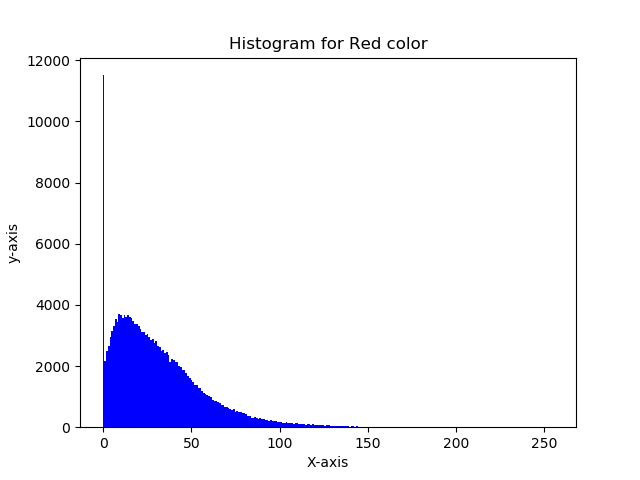
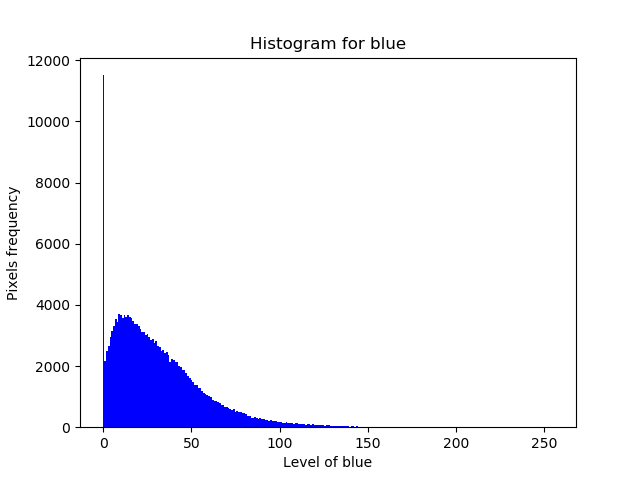
Adicionando funções e comentários.

Changed region(s): [[0.3438, 0.0625, 0.6562, 0.125], [0.0, 0.375, 0.0312, 0.625], [0.4375, 0.9375, 0.5938, 0.9688]]

diff --git a/exe01.py b/exe01.py
@@ -4,7 +4,6 @@ from numpy import array
 import matplotlib.pyplot as plt
 import argparse
 import os
-import numpy as np
 
 
 def get_image_matrix(img_path: str) -> array:
@@ -16,59 +15,57 @@ def get_image_shape(img_matrix: array):
     return img_matrix.shape
 
 
-def get_frequencies_arrays(img_path: str) -> Tuple[array, array, array]:
+def get_frequencies_arrays(img_matrix: array) -> Tuple[array, array, array]:
     red = [0] * 256
     green = [0] * 256
     blue = [0] * 256
 
-    img = get_image_matrix(img_path)
-    width, height, _ = get_image_shape(img)
+    width, height, _ = get_image_shape(img_matrix)
 
     for w in range(width):
         for h in range(height):
-            red[img[w][h][0]] += 1
-            green[img[w][h][1]] += 1
-            blue[img[w][h][2]] += 1
+            red[img_matrix[w][h][0]] += 1
+            green[img_matrix[w][h][1]] += 1
+            blue[img_matrix[w][h][2]] += 1
 
     return red, green, blue
 
 
-def change_brightness(img_path: str, level: int) -> array:
-    img = get_image_matrix(img_path)
-    width, height, _ = get_image_shape(img)
+def change_brightness(img_matrix: array, level: int) -> array:
+    width, height, _ = get_image_shape(img_matrix)
 
     for w in range(width):
         for h in range(height):
-            r_new_level = img[w][h][0] + level
-            g_new_level = img[w][h][1] + level
-            b_new_level = img[w][h][2] + level
+            r_new_level = img_matrix[w][h][0] + level
+            g_new_level = img_matrix[w][h][1] + level
+            b_new_level = img_matrix[w][h][2] + level
 
             if r_new_level < 0:
-                img[w][h][0] = 0
+                img_matrix[w][h][0] = 0
             elif r_new_level > 255:
-                img[w][h][0] = 255
+                img_matrix[w][h][0] = 255
             else:
-                img[w][h][0] = r_new_level
+                img_matrix[w][h][0] = r_new_level
 
             if g_new_level < 0:
-                img[w][h][1] = 0
+                img_matrix[w][h][1] = 0
             elif g_new_level > 255:
-                img[w][h][1] = 255
+                img_matrix[w][h][1] = 255
             else:
-                img[w][h][1] = g_new_level
+                img_matrix[w][h][1] = g_new_level
 
             if b_new_level < 0:
-                img[w][h][2] = 0
+                img_matrix[w][h][2] = 0
             elif b_new_level > 255:
-                img[w][h][2] = 255
+                img_matrix[w][h][2] = 255
             else:
-                img[w][h][2] = b_new_level
+                img_matrix[w][h][2] = b_new_level
 
-    return img
+    return img_matrix
 
 
 def get_neighborhood_average(img_matrix: array, w: int, h: int, color: int) -> float:
-    neighborhood = [
+    return [
         img_matrix[w - 1][h - 1][color],
         img_matrix[w][h - 1][color],
         img_matrix[w + 1][h - 1][color],
@@ -79,25 +76,70 @@ def get_neighborhood_average(img_matrix: array, w: int, h: int, color: int) -> f
         img_matrix[w - 1][h][color],
     ]
 
-    return np.mean(neighborhood)
 
-
-def calculate_image_average(img_path: str) -> array:
-    img = get_image_matrix(img_path)
-    img_aux = img
-    width, height, _ = get_image_shape(img)
+def calculate_image_average(img_matrix: array) -> array:
+    img_aux = img_matrix
+    width, height, _ = get_image_shape(img_matrix)
 
     for w in range(1, width - 1):
         for h in range(1, height - 1):
-            img[w][h][0] = get_neighborhood_average(img_aux, w, h, 0)
-            img[w][h][1] = get_neighborhood_average(img_aux, w, h, 1)
-            img[w][h][2] = get_neighborhood_average(img_aux, w, h, 2)
+            img_matrix[w][h][0] = calculate_average(
+                get_neighborhood_average(img_aux, w, h, 0)
+            )
+            img_matrix[w][h][1] = calculate_average(
+                get_neighborhood_average(img_aux, w, h, 1)
+            )
+            img_matrix[w][h][2] = calculate_average(
+                get_neighborhood_average(img_aux, w, h, 2)
+            )
 
-    return img
+    return img_matrix
+
+
+def calculate_image_median(img_matrix: array) -> array:
+    img_aux = img_matrix
+    width, height, _ = get_image_shape(img_matrix)
+
+    for w in range(1, width - 1):
+        for h in range(1, height - 1):
+            img_matrix[w][h][0] = calculate_median(
+                get_neighborhood_average(img_aux, w, h, 0)
+            )
+            img_matrix[w][h][1] = calculate_median(
+                get_neighborhood_average(img_aux, w, h, 1)
+            )
+            img_matrix[w][h][2] = calculate_median(
+                get_neighborhood_average(img_aux, w, h, 2)
+            )
+
+    return img_matrix
+
+
+def calculate_average(neighborhood_array: array) -> int:
+    return sum(neighborhood_array) / len(neighborhood_array)
+
+
+def calculate_median(neighborhood_array: array) -> int:
+    index_neighborhood_array = int(len(neighborhood_array) / 2)
+    ordered_neighborhood_array = bubble_sort(neighborhood_array)
+
+    return ordered_neighborhood_array[index_neighborhood_array]
+
+
+def bubble_sort(vetor) -> array:
+
+    for i in range(0, len(vetor) - 1, 1):
+        for j in range(i + 1, len(vetor), 1):
+            if vetor[i] > vetor[j]:
+                temp = vetor[i]
+                vetor[i] = vetor[j]
+                vetor[j] = temp
+
+    return vetor
 
 
 def show_histogram(
-    frequencies_array, color, name: str, output=None, save=False
+    frequencies_array, color, filename_original: str, output_path=None, save=False
 ) -> None:
     X = [i for i in range(256)]
     Y = frequencies_array
@@ -109,13 +151,13 @@ def show_histogram(
     plt.ylabel(f"Pixels frequency")
 
     if save:
-        name = name.split(".")
-        plt.savefig(f"{output}/{name[0]}_{color}_histogram.png")
+        filename_original = filename_original.split(".")
+        plt.savefig(f"{output_path}/{filename_original[0]}_{color}_histogram.png")
     plt.show()
     plt.close()
 
 
-def save_image(array: str, output: str, name: str):
+def save_image(array: str, output: str, name: str) -> None:
     img = Image.fromarray(array, "RGB")
     img.save(f"{output}/{name}.png")
     img.show()
@@ -130,25 +172,120 @@ if __name__ == "__main__":
     )
     args = parser.parse_args()
 
-    # r, g, b = get_frequencies_arrays(args.img)
+    # Histogram for the original picture
+    img_matrix = get_image_matrix(args.img)
+    r, g, b = get_frequencies_arrays(img_matrix)
 
-    # # Calculate
-    # show_histogram(r, "red", os.path.basename(args.img), output=args.output, save=True)
-    # show_histogram(
-    #     g, "green", os.path.basename(args.img), output=args.output, save=True
-    # )
-    # show_histogram(b, "blue", os.path.basename(args.img), output=args.output, save=True)
+    show_histogram(
+        r, "red", os.path.basename(args.img), output_path=args.output, save=True
+    )
+    show_histogram(
+        g, "green", os.path.basename(args.img), output_path=args.output, save=True
+    )
+    show_histogram(
+        b, "blue", os.path.basename(args.img), output_path=args.output, save=True
+    )
 
-    # new_image = change_brightness(args.img, 10)
-    # save_image(
-    #     new_image,
-    #     args.output,
-    #     f"{str(os.path.basename(args.img)).split('.')[0]}_brightness",
-    # )
+    # Histogram for the picture after brightness
+    new_image = change_brightness(img_matrix, 10)
 
-    new_image_average = calculate_image_average(args.img)
+    save_image(
+        new_image,
+        args.output,
+        f"{str(os.path.basename(args.img)).split('.')[0]}_brightness",
+    )
+    img_brightness_name = (
+        f"{str(os.path.basename(args.img)).split('.')[0]}_brightness.png"
+    )
+    img_matrix = get_image_matrix(os.path.join(args.output, img_brightness_name))
+    r, g, b = get_frequencies_arrays(img_matrix)
+
+    show_histogram(
+        r,
+        "red",
+        img_brightness_name,
+        output_path=args.output,
+        save=True,
+    )
+    show_histogram(
+        g,
+        "green",
+        img_brightness_name,
+        output_path=args.output,
+        save=True,
+    )
+    show_histogram(
+        b,
+        "blue",
+        img_brightness_name,
+        output_path=args.output,
+        save=True,
+    )
+
+    # Histogram for the picture after average
+    new_image_average = calculate_image_average(img_matrix)
     save_image(
         new_image_average,
         args.output,
         f"{str(os.path.basename(args.img)).split('.')[0]}_average",
+    )
+    img_average_name = f"{str(os.path.basename(args.img)).split('.')[0]}_average.png"
+    print(img_average_name)
+    img_matrix = get_image_matrix(os.path.join(args.output, img_average_name))
+    r, g, b = get_frequencies_arrays(img_matrix)
+
+    show_histogram(
+        r,
+        "red",
+        img_average_name,
+        output_path=args.output,
+        save=True,
+    )
+    show_histogram(
+        g,
+        "green",
+        img_average_name,
+        output_path=args.output,
+        save=True,
+    )
+    show_histogram(
+        b,
+        "blue",
+        img_average_name,
+        output_path=args.output,
+        save=True,
+    )
+
+    # Histogram for the picture after median
+    new_image_median = calculate_image_median(img_matrix)
+    save_image(
+        new_image_median,
+        args.output,
+        f"{str(os.path.basename(args.img)).split('.')[0]}_median",
+    )
+    img_median_name = f"{str(os.path.basename(args.img)).split('.')[0]}_median.png"
+    print(img_median_name)
+    img_matrix = get_image_matrix(os.path.join(args.output, img_median_name))
+    r, g, b = get_frequencies_arrays(img_matrix)
+
+    show_histogram(
+        r,
+        "red",
+        img_median_name,
+        output_path=args.output,
+        save=True,
+    )
+    show_histogram(
+        g,
+        "green",
+        img_median_name,
+        output_path=args.output,
+        save=True,
+    )
+    show_histogram(
+        b,
+        "blue",
+        img_median_name,
+        output_path=args.output,
+        save=True,
     )
